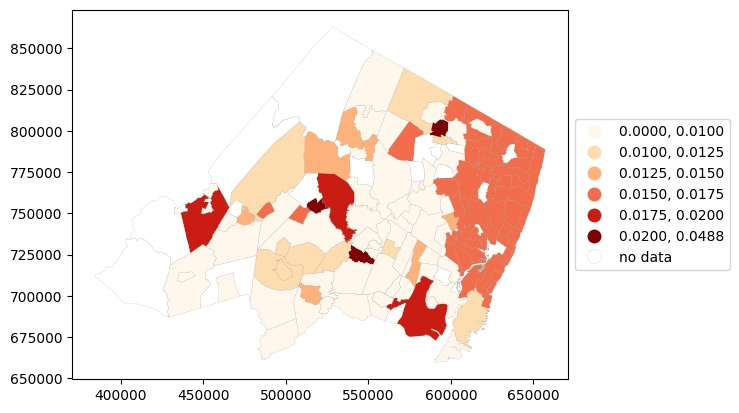
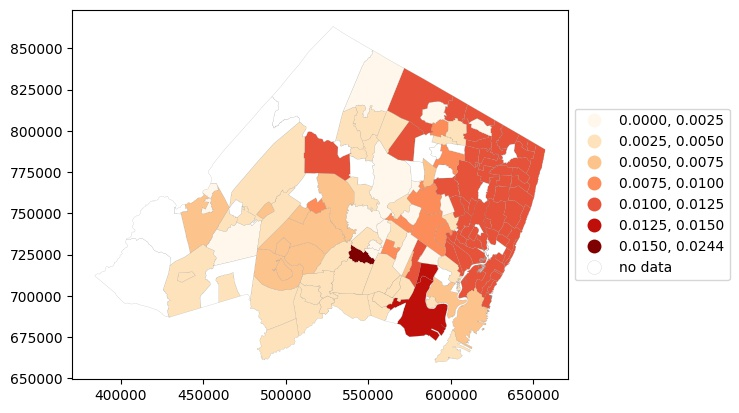
log scale

Changed region(s): [[0.2179, 0.1743, 0.747, 0.8717], [0.7781, 0.2615, 0.9959, 0.6683]]

diff --git a/weighted_avg_print.py b/weighted_avg_print.py
@@ -1,0 +1,79 @@
+import numpy as np
+import pandas as pd
+import geopandas as gpd
+import matplotlib.pyplot as plt
+import data_format
+import regional_sys
+import math
+
+
+NJ_MUNI = '/Users/Oakafee/Documents/cunymaps/nj-municipalities-age/Govt_admin_mun_coast_bnd/Govt_admin_mun_coast_bnd.shp'
+PICKLE_PATH = '/Users/Oakafee/Documents/Grad_school/gisProgramming/project/ws_data/all_lead_as_one_3.pkl'
+LEGEND_SETTINGS = {
+	'loc': 'center left',
+	'bbox_to_anchor':(1,0.5),
+	'fmt':"{:.4f}"
+}
+
+
+
+nj_muni = gpd.read_file(NJ_MUNI)
+lead_info = pd.read_pickle(PICKLE_PATH)
+
+
+# Parsippany Issue, because of the dash character in the name
+lead_info = lead_info.replace('HILLS', '1429')
+
+# Belleville data cleaning: very low value was messing up log scale
+lead_info.replace(0.00017, 0, inplace=True)
+
+
+# Length of time with lead problem...using PWSID instead of Muncode
+lead_systems = lead_info.PWSID.unique()
+lead_avgs = []
+sys_names = []
+
+for m in lead_systems:
+	weighted_conc = []
+	total_years = 0
+	sys_name = ''
+	for n in lead_info[lead_info.PWSID == m].itertuples():
+		if math.isnan(n.Lead_in_mgL):
+			continue
+		years = data_format.time_delta_years(n.Start_dates, n.End_dates)
+		total_years += years
+		weighted = n.Lead_in_mgL * years
+		weighted_conc.append(weighted)
+		sys_name = n.Water_system_name
+	weighted_conc = np.array(weighted_conc)
+	lead_avgs.append(np.sum(weighted_conc)/total_years)
+	# And the water system names (could also be city names)
+	sys_names.append(sys_name)
+
+lead_avg_df = pd.DataFrame(data={
+	'PWSID': lead_systems,
+	'water_system_name': sys_names,
+	'lead_avg_conc': lead_avgs
+})
+
+# Top ten lead contaminated water systems:
+top_contam = lead_avg_df.sort_values(by='lead_avg_conc', ascending=False)[0:8].PWSID
+
+# Make line graph of top ten: need to spread out dates
+start = lead_info.loc[:,['Start_dates', 'PWSID', 'Water_system_name', 'Lead_in_mgL']]
+end = lead_info.loc[:,['End_dates', 'PWSID', 'Water_system_name', 'Lead_in_mgL']]
+start.rename(columns = {'Start_dates':'date'}, inplace = True)
+end.rename(columns = {'End_dates':'date'}, inplace = True)
+alldates = pd.concat([start,end], ignore_index=True, sort=True)
+alldates.sort_values(by='date', inplace=True)
+
+for m in top_contam:
+	sys = alldates[alldates.PWSID == m]
+	label = sys.iloc[0].Water_system_name
+	plt.plot(sys.date, sys.Lead_in_mgL, label=label, linewidth=2.5)
+# a horizontal line
+plt.axhline(y=0.015, color='red', linestyle='--')
+plt.semilogy()
+plt.legend(loc='upper left', bbox_to_anchor=(1, 1))
+#plt.show()
+plt.savefig('plots/top_ten.jpg', bbox_inches='tight')

diff --git a/weighted_avg.py b/weighted_avg.py
@@ -40,7 +40,7 @@ for m in lead_cities:
 		weighted_conc.append(weighted)
 	weighted_conc = np.array(weighted_conc)
 	#lead_avgs.append(np.sum(weighted_conc))
-	lead_avgs.append(np.mean(weighted_conc))
+	lead_avgs.append(np.sum(weighted_conc)/total_years)
 
 lead_avg_df = pd.DataFrame(data={
 	'MUN_CODE': lead_cities,
@@ -79,7 +79,7 @@ nj_w_lead.plot(
 	legend=True,
 	legend_kwds=LEGEND_SETTINGS,
 	scheme='user_defined',
-	classification_kwds={'bins':[0.010, 0.0125, 0.015, 0.0175, 0.020]},
+	classification_kwds={'bins':[0.0025, 0.005, 0.0075, 0.010, 0.0125, 0.015]},
 	missing_kwds={'color': 'white', 'edgecolor': 'gray', 'linewidth': 0.1, 'label': 'no data'},
 )
 #plt.show()

diff --git a/avg_of_systems.py b/avg_of_systems.py
@@ -1,0 +1,27 @@
+lead_cities = lead_info.Muncode.unique()
+
+sys_lead = []
+
+for m in lead_cities:
+	for n in lead_info[lead_info.Muncode == m].itertuples():
+		for year in range(2002,2022):
+			sys_yr = n.Start_dates.date.year
+				if ((sys_yr == year) or (sys_year == year - 1)):
+					sys_lead.append(n.Lead_in_mgL)
+				elif n.Start_dates.year == year - 1:
+					
+		
+		
+		
+for row in lead_info.itertuples():
+	# iterate through years
+	for year in range(2002,2022):
+		
+			
+for year in range(2002,2022):
+	sys_lead = []
+	for row in lead_info.itertuples():
+		candidate = row[row.Start_dates.date.year]
+		if candidate
+		if row[row.Start_dates.date.year] == year:
+			
